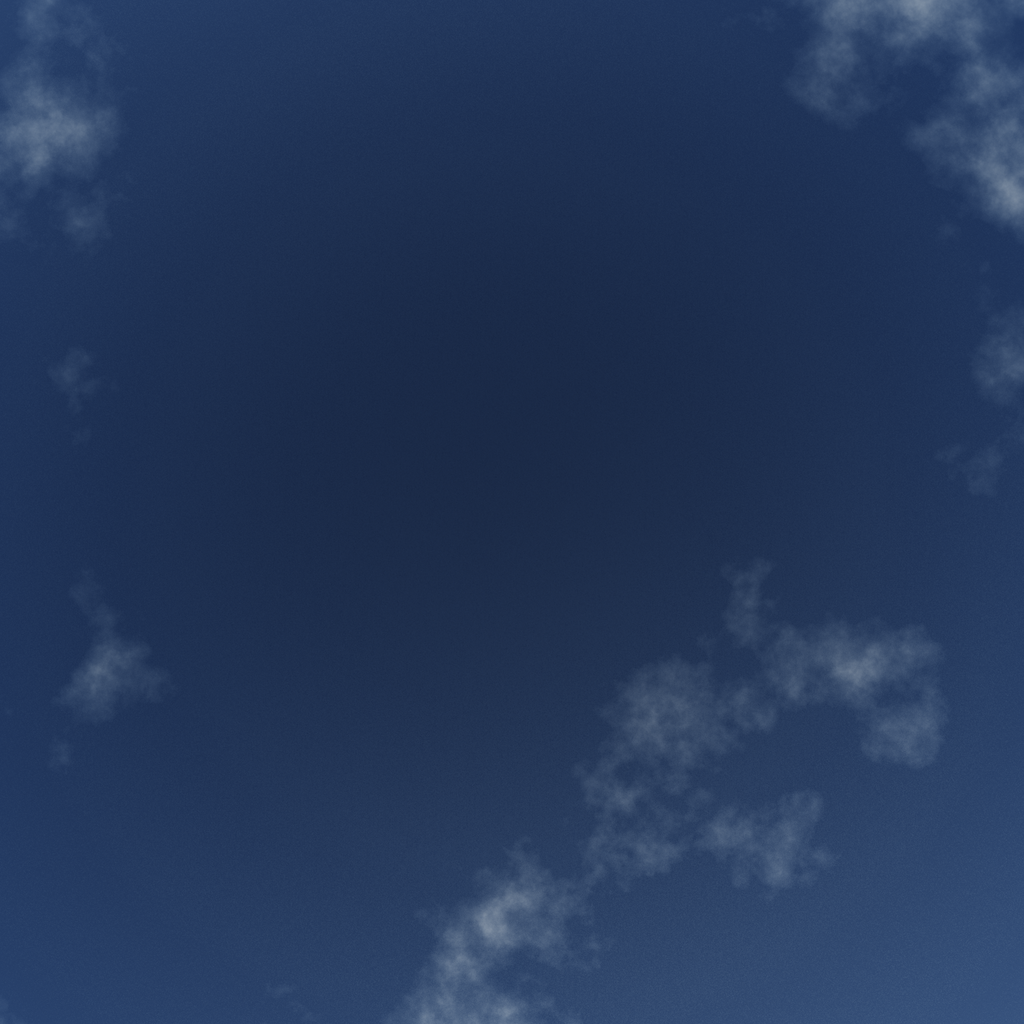
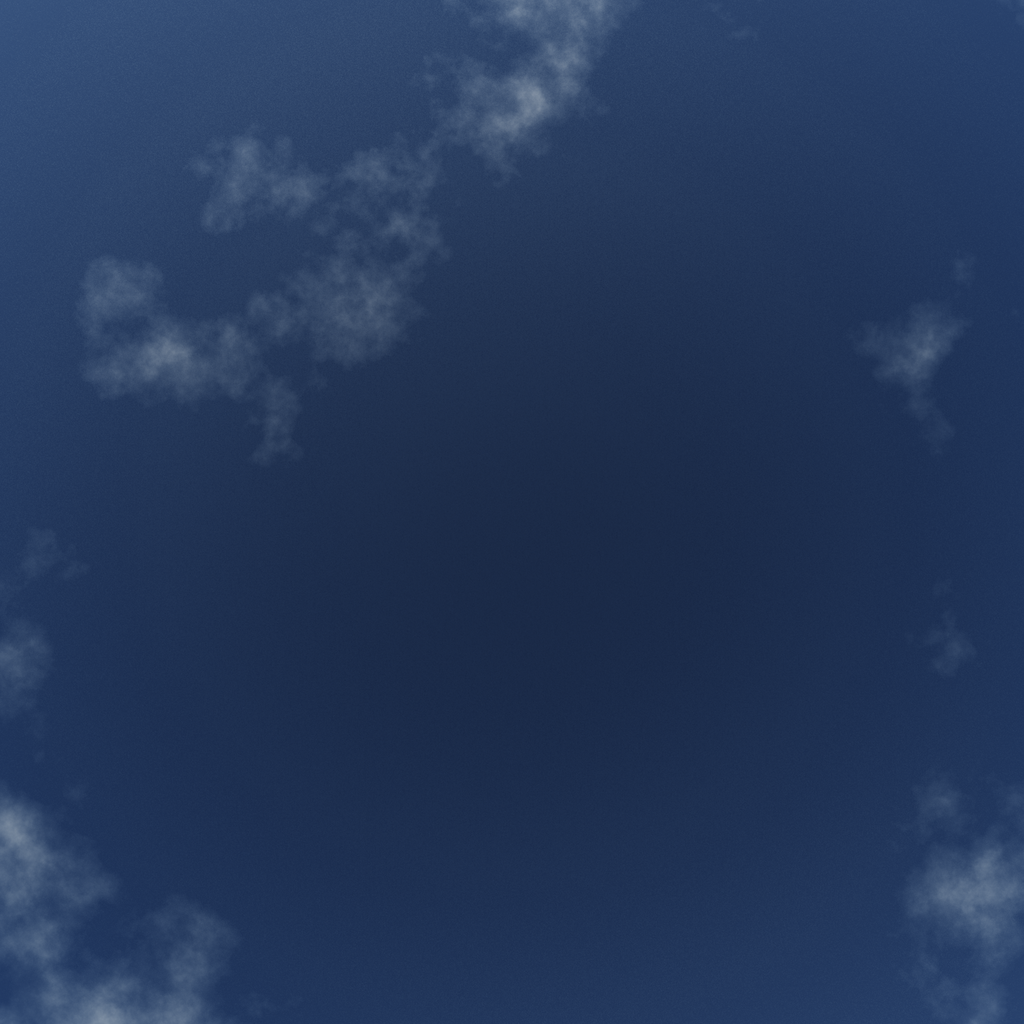
SKYBOX WORKING

diff --git a/project/implementation/RenderProject.cpp b/project/implementation/RenderProject.cpp
@@ -35,8 +35,6 @@ void RenderProject::initFunction()
 	bRenderer().getObjects()->setShaderVersionDesktop("#version 120");
 	bRenderer().getObjects()->setShaderVersionES("#version 100");
     
-    //bRenderer().getObjects()->loadCubeMap("textureCube", std::vector<std::string>({ "TropicalSunnyDay_bk.png", "TropicalSunnyDay_dn.png", "TropicalSunnyDay_ft.png", "TropicalSunnyDay_lf.png", "TropicalSunnyDay_rt.png", "TropicalSunnyDay_up.png" }));
-
 	// load materials and shaders before loading the model
 	ShaderPtr customShader = bRenderer().getObjects()->generateShader("customShader", { 2, true, true, true, true, true, true, true, true, true, false, false, false });	// automatically generates a shader with a maximum of 2 lights
 	//ShaderPtr flameShader = bRenderer().getObjects()->loadShaderFile("flame", 0, false, true, true, false, false);				// load shader from file without lighting, the number of lights won't ever change during rendering (no variable number of lights)
@@ -56,6 +54,9 @@ void RenderProject::initFunction()
     //Cube Fabio:
     
     bRenderer().getObjects()->loadObjModel_o("cube.obj",skyShader,FLIP_Z);
+    
+    
+    
     
     
 	// create additional properties for a model
@@ -204,13 +205,24 @@ void RenderProject::terminateFunction()
 /* Update render queue */
 void RenderProject::updateRenderQueue(const std::string &camera, const double &deltaTime)
 {
-    vmml::Matrix4f modelMatrix = vmml::create_translation(vmml::Vector3f(1.0f, 1.0f, 1.0f)) * vmml::create_scaling(vmml::Vector3f(20.0f));
+    vmml::Matrix4f modelMatrix = vmml::create_translation(-1.0f*(bRenderer().getObjects()->getCamera(camera)->getPosition())) * vmml::create_scaling(vmml::Vector3f(2000.0f));
     
     //cube
 
-    glDepthFunc(GL_FALSE);
+    glClear(GL_DEPTH_TEST);
+    glDisable(GL_DEPTH_TEST);
+    glDepthMask(false);
+    
+    glEnable(GL_CULL_FACE);
+    glCullFace(GL_FRONT);
+    
     bRenderer().getModelRenderer()->queueModelInstance("cube", "cube_instance", camera, modelMatrix, std::vector<std::string>({ "torchLight", "firstLight", "secondLight", "thirdLight" }));
-    glDepthFunc(GL_TRUE);
+    
+    glDisable(GL_CULL_FACE);
+    
+    glDepthMask(true);
+    glEnable(GL_DEPTH_TEST);
+    
     
 	/*** Cave ***/
 	// translate and scale 

diff --git a/bRenderer/implementation/Framebuffer.cpp b/bRenderer/implementation/Framebuffer.cpp
@@ -62,6 +62,7 @@ void Framebuffer::bindCubeMap(CubeMapPtr cubeMap, GLuint cubeFace, bool preserve
 	glFramebufferTexture2D(GL_FRAMEBUFFER, GL_COLOR_ATTACHMENT0, GL_TEXTURE_CUBE_MAP_POSITIVE_X + cubeFace, cubeMap->getTextureID(), 0);
 	// Important: glClear has to be called after binding the texture
 	glClear(GL_COLOR_BUFFER_BIT | GL_DEPTH_BUFFER_BIT);
+    
 
 	GLenum status;
 	if ((status = glCheckFramebufferStatus(GL_FRAMEBUFFER)) != GL_FRAMEBUFFER_COMPLETE) {
